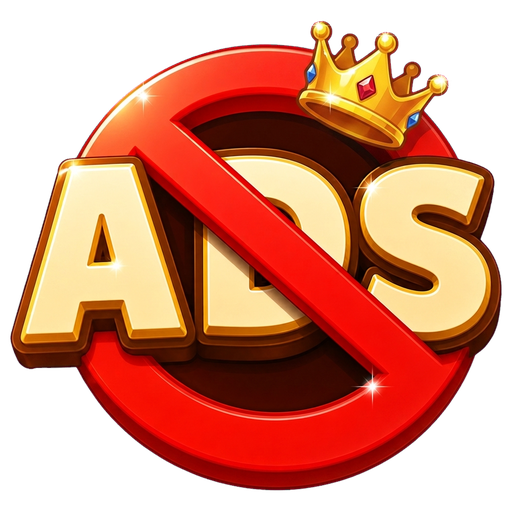
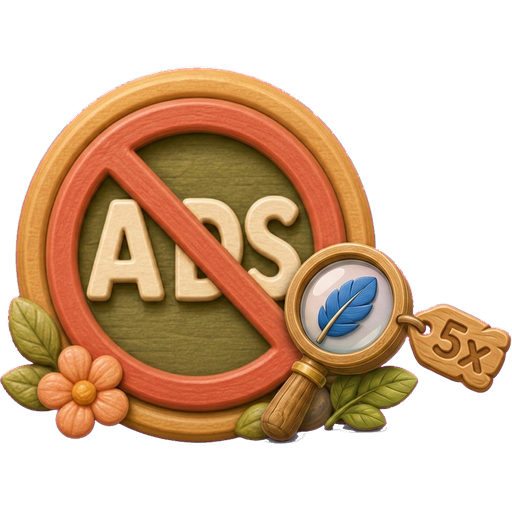
fix(ftb): tutorial tap gate + pan tracking; home polish round 3 (build-20 review)
- Tutorial 'Tap the bird' gate hit-tested dogs[0] while the ring pointed at
  the nearest VISIBLE bird — every tap on the ringed bird was swallowed.
  Gate and advance now key off the actual target id.
- DOM spotlight/bubble re-anchor every frame from the bird's world point,
  so panning/zooming no longer strands the cutout (canvas ring already
  tracked; the overlay now does too).
- Achievements: removed first_best (no timer UI) and the mastery_* ladder
  (duplicated completions); budget now 660 coins / 15 hints.
- New No-Ads Premium icon: composite of this game's no-ads badge +
  magnifier hint icon + carved 5x tag (chroma-key lane); sha repinned.
- Home: Play Now dock gaps equalized (15.2/15.6px), nav icons +25%
  (66→82px, achievements 62→78px), CSS-pin test updated.

diff --git a/games/find_the_bird/src/scenes/GameScene.ts b/games/find_the_bird/src/scenes/GameScene.ts
@@ -265,6 +265,12 @@ export class GameScene extends Phaser.Scene {
   /** Active tutorial highlight ring. Null when tutorial not shown. */
   private tutorialRing: Phaser.GameObjects.Graphics | null = null;
   private tutorialRingTween: Phaser.Tweens.Tween | null = null;
+  /** The bird the state-1 tutorial ring points at (NOT necessarily dogs[0] —
+   *  the prompt picks the nearest bird visible in the starting viewport). */
+  private tutorialTargetDogId: string | null = null;
+  /** World-space anchor + CSS radius for per-frame spotlight tracking. */
+  private tutorialAnchorWorld: { x: number; y: number } | null = null;
+  private tutorialAnchorRadiusCss = 0;
   /**
    * True while the tutorial is on its final zoom step, waiting for the player
    * to perform a real pinch-zoom. `update()` completes the tutorial once the
@@ -596,6 +602,26 @@ export class GameScene extends Phaser.Scene {
     }
 
     this.updateHintEdgeArrow();
+
+    // State-1 tutorial: keep the DOM spotlight/bubble glued to the target
+    // bird while the camera pans or zooms (the canvas ring is world-space
+    // and tracks for free; the DOM overlay is not).
+    if (this.tutorialHandle && this.tutorialAnchorWorld) {
+      const canvas = this.scale.canvas;
+      if (canvas) {
+        const view = this.cameras.main.worldView;
+        const css = phaserPointToCssPoint(
+          canvas,
+          GAME.WIDTH,
+          GAME.HEIGHT,
+          ((this.tutorialAnchorWorld.x - view.left) / view.width) * GAME.WIDTH,
+          ((this.tutorialAnchorWorld.y - view.top) / view.height) * GAME.HEIGHT,
+        );
+        // Zoom scales the on-screen radius: worldView shrinks as zoom grows.
+        const zoomScale = GAME.WIDTH / (view.width || GAME.WIDTH);
+        this.tutorialHandle.updateAnchor(css, this.tutorialAnchorRadiusCss * zoomScale);
+      }
+    }
 
     if (this.activeRevealDirty) {
       this.activeRevealDirty = false;
@@ -1266,15 +1292,19 @@ export class GameScene extends Phaser.Scene {
       return;
     }
 
-    // First-time tutorial, "Tap the dog" phase (pulsing ring up): only the
-    // spotlighted target (dogs[0]) is interactive. Taps on other dogs and
-    // wrong-tap penalties are swallowed — the overlay is pointing at ONE
-    // dog, so collecting others (or losing lives) mid-instruction breaks
-    // the tutorial contract. The gate lifts when the ring tears down
-    // (target found, hint used, or overlay dismissed).
-    if (this.tutorialRing !== null && this.level.dogs.length > 0) {
-      const tutorialHit = this.findClosestUnfoundDogInSet(levelX, levelY, [this.level.dogs[0]]);
-      if (tutorialHit) this.onDogFound(tutorialHit, screenX, screenY);
+    // First-time tutorial, "Tap the bird" phase (pulsing ring up): only the
+    // spotlighted target is interactive. Taps on other birds and wrong-tap
+    // penalties are swallowed — the overlay is pointing at ONE bird, so
+    // collecting others (or losing lives) mid-instruction breaks the
+    // tutorial contract. The gate lifts when the ring tears down (target
+    // found, hint used, or overlay dismissed). The target is the bird the
+    // prompt chose (nearest visible one — NOT necessarily dogs[0]).
+    if (this.tutorialRing !== null) {
+      const target = this.level.dogs.find((d) => d.id === this.tutorialTargetDogId);
+      if (target) {
+        const tutorialHit = this.findClosestUnfoundDogInSet(levelX, levelY, [target]);
+        if (tutorialHit) this.onDogFound(tutorialHit, screenX, screenY);
+      }
       return;
     }
 
@@ -1371,10 +1401,11 @@ export class GameScene extends Phaser.Scene {
     playFind();
     hapticFound();
     updateHUD(this.level!.dogs.length, this.isRestoration);
-    // Tutorial points its pulsing ring at dogs[0] and says "Tap the dog".
-    // Only advance when the player taps THAT dog — if their eye catches a
-    // different one first, leave the ring intact so the contract holds.
-    if (this.level && dog.id === this.level.dogs[0].id) {
+    // Tutorial points its pulsing ring at the bird chosen at prompt time
+    // (nearest visible one — NOT dogs[0]). Only advance when the player taps
+    // THAT bird — if their eye catches a different one first, leave the ring
+    // intact so the contract holds.
+    if (dog.id === this.tutorialTargetDogId) {
       this.advanceTutorial();
     }
 
@@ -1861,6 +1892,8 @@ export class GameScene extends Phaser.Scene {
    */
   private advanceTutorial(): void {
     if (!this.tutorialHandle) return;
+    this.tutorialTargetDogId = null;
+    this.tutorialAnchorWorld = null;
     // Now on the "try a hint" step — arm hint suppression so the tap that
     // advances to the zoom step neither fires a hint nor draws a hint circle.
     this.tutorialHandle.advanceToHintState();
@@ -1918,6 +1951,10 @@ export class GameScene extends Phaser.Scene {
       onUpdate: () => drawRing(pulse.scale, pulse.alpha),
     });
 
+    this.tutorialTargetDogId = dog.id;
+    this.tutorialAnchorWorld = { x: phaserX, y: phaserY };
+    this.tutorialAnchorRadiusCss = dogRadiusCss;
+
     // Field-track the handle so shutdown can call dismiss() cleanly.
     this.tutorialHandle = showTutorialOverlay({
       dogScreen,
@@ -1933,6 +1970,8 @@ export class GameScene extends Phaser.Scene {
       // handle so a later dog-tap cannot re-advance a dead tutorial.
       this.tutorialAwaitingZoom = false;
       this.tutorialHandle = null;
+      this.tutorialTargetDogId = null;
+      this.tutorialAnchorWorld = null;
       this.tutorialRingTween?.destroy();
       this.tutorialRingTween = null;
       const r = this.tutorialRing;

diff --git a/games/find_the_bird/tests/unit/achievement-migration.test.ts b/games/find_the_bird/tests/unit/achievement-migration.test.ts
@@ -42,6 +42,11 @@ function todayStamp(): string {
   return `${d.getFullYear()}-${String(d.getMonth() + 1).padStart(2, '0')}-${String(d.getDate()).padStart(2, '0')}`;
 }
 
+function yesterdayStamp(): string {
+  const d = new Date(Date.now() - 24 * 60 * 60 * 1000);
+  return `${d.getFullYear()}-${String(d.getMonth() + 1).padStart(2, '0')}-${String(d.getDate()).padStart(2, '0')}`;
+}
+
 beforeEach(() => {
   (globalThis as unknown as { localStorage: MemStorage }).localStorage = new MemStorage();
 });
@@ -87,7 +92,6 @@ describe('migration / backfill (AC4/AC5/KTD5)', () => {
     localStorage.setItem(K.BEST_TIMES, JSON.stringify({ 'served-a': 10, 'served-b': 12, 'served-c': 8 }));
     const gs = new GameState();
     expect(gs.achievementRecordSnapshot().masteredLevelIds).toEqual([]);
-    expect(gs.achievementRecordSnapshot().unlocked).not.toContain('mastery_5');
   });
 
   it('running migration twice yields an identical record (idempotent, AC3/AC4)', () => {
@@ -100,15 +104,17 @@ describe('migration / backfill (AC4/AC5/KTD5)', () => {
 
   it('no retroactive reward: migrated unlock never grants, new post-migration achievement does (correction 7)', () => {
     localStorage.setItem(K.TOTAL, '12');
+    localStorage.setItem(K.STREAK_DAYS, '2');
+    localStorage.setItem(K.STREAK_LAST_DATE, yesterdayStamp());
     const gs = new GameState();
-    expect(gs.coinBalance).toBe(0); // migration granted nothing
-    // A live completion: completions_10 is already unlocked (no re-grant); first_best
-    // is genuinely new post-migration and rewards normally (20 coins) + base 45.
+    expect(gs.coinBalance).toBe(0); // migration granted nothing (streak 2 < 3, no backfill)
+    // A live completion: completions_10 is already unlocked (no re-grant); streak_3
+    // is genuinely new post-migration (streak 2 → 3) and rewards normally (30 coins) + base 45.
     const result = gs.beginLevelCompletionTransaction({ levelId: 'lvl-live', levelIndex: 12, timeSeconds: 15, baseCoinReward: 45 });
     expect(result.achievementCommit?.rewards).toHaveLength(0);
-    expect(gs.claimAchievementReward('first_best')).toMatchObject({ coins: 20 });
+    expect(gs.claimAchievementReward('streak_3')).toMatchObject({ coins: 30 });
     expect(gs.claimAchievementReward('completions_10')).toBeNull();
-    expect(gs.coinBalance).toBe(65); // 45 base + claimed 20 first_best
+    expect(gs.coinBalance).toBe(75); // 45 base + claimed 30 streak_3
   });
 
   it('upgrades an older-version record without losing existing unlocks', () => {

diff --git a/games/find_the_bird/src/achievements/catalog.ts b/games/find_the_bird/src/achievements/catalog.ts
@@ -84,17 +84,6 @@ export const ACHIEVEMENT_CATALOG: readonly Achievement[] = [
     entitledReward: { coins: 100, hints: 3 },
   },
   {
-    id: 'first_best',
-    name: 'Personal Best',
-    description: 'Set your first personal best time.',
-    category: 'progression',
-    milestoneKind: 'occurrence-count',
-    threshold: 1,
-    progressSource: 'personalBests',
-    order: 50,
-    entitledReward: { coins: 20 },
-  },
-  {
     id: 'streak_3',
     name: 'On a Roll',
     description: 'Play on 3 consecutive days.',
@@ -137,28 +126,6 @@ export const ACHIEVEMENT_CATALOG: readonly Achievement[] = [
     progressSource: 'lifetimeDogs',
     order: 90,
     entitledReward: { coins: 60 },
-  },
-  {
-    id: 'mastery_5',
-    name: 'Explorer',
-    description: 'Complete 5 different levels.',
-    category: 'mastery',
-    milestoneKind: 'logical-progression',
-    threshold: 5,
-    progressSource: 'masteredLevels',
-    order: 100,
-    entitledReward: { coins: 30 },
-  },
-  {
-    id: 'mastery_15',
-    name: 'Cartographer',
-    description: 'Complete 15 different levels.',
-    category: 'mastery',
-    milestoneKind: 'logical-progression',
-    threshold: 15,
-    progressSource: 'masteredLevels',
-    order: 110,
-    entitledReward: { coins: 75, hints: 2 },
   },
   // 2026-08-06 expansion: the catalog now spans 50+ levels with ~1000
   // findable birds — the ladder extends to match. Existing ids/thresholds
@@ -207,17 +174,6 @@ export const ACHIEVEMENT_CATALOG: readonly Achievement[] = [
     order: 72,
     entitledReward: { coins: 40, hints: 3 },
   },
-  {
-    id: 'mastery_58',
-    name: 'The Whole Atlas',
-    description: 'Complete 58 different levels.',
-    category: 'mastery',
-    milestoneKind: 'logical-progression',
-    threshold: 58,
-    progressSource: 'masteredLevels',
-    order: 112,
-    entitledReward: { coins: 10, hints: 2 },
-  },
 ] as const;
 
 let cachedOrdered: readonly Achievement[] | null = null;
@@ -233,8 +189,8 @@ export function orderedAchievements(): readonly Achievement[] {
 /**
  * Reward-budget total (AC6). Documented so a future catalog edit that inflates the
  * economy is caught by the U2 upper-bound test.
- *   coins: 25+50+75+100+20+30+60+30+60+30+75+60+80+50+40+10 = 795
- *   hints: 3+2+2+2+3+2+3+2 = 19
+ *   coins: 25+50+75+100+30+60+30+60+60+80+50+40 = 660
+ *   hints: 3+2+2+3+2+3 = 15
  */
 export function catalogRewardTotals(): { coins: number; hints: number } {
   let coins = 0;

diff --git a/games/find_the_bird/src/ui/TutorialOverlay.ts b/games/find_the_bird/src/ui/TutorialOverlay.ts
@@ -53,6 +53,13 @@ export interface TutorialHandle {
    * taps the correct dog.
    */
   advanceToHintState: () => void;
+  /**
+   * Re-anchor the state-1 spotlight + bubble to a new viewport point. The
+   * scene calls this every frame while the camera can pan/zoom so the
+   * cutout stays glued to the bird instead of to the screen. No-op outside
+   * state 1.
+   */
+  updateAnchor: (dogScreen: { x: number; y: number }, dogRadius: number) => void;
 }
 
 type TutorialState = 'dog' | 'hint' | 'zoom' | 'dismissed';
@@ -184,7 +191,20 @@ export function showTutorialOverlay(anchor: TutorialAnchor): TutorialHandle {
     overlay.appendChild(hintBubble);
   };
 
-  return { dismissed, dismiss, advanceToHintState };
+  const bubbleDog = overlay.querySelector<HTMLElement>('.tutorial-bubble-dog');
+  const updateAnchor = (dogScreen: { x: number; y: number }, dogRadius: number): void => {
+    if (state !== 'dog') return;
+    // Per-frame tracking: kill the state-change transition or the cutout
+    // rubber-bands behind the camera pan.
+    if (spotlight) spotlight.style.transition = 'none';
+    setCircleSpotlight(spotlight, dogScreen, dogRadius + SPOTLIGHT_PADDING_PX);
+    if (bubbleDog) {
+      bubbleDog.style.left = `${dogScreen.x}px`;
+      bubbleDog.style.top = `${dogScreen.y}px`;
+    }
+  };
+
+  return { dismissed, dismiss, advanceToHintState, updateAnchor };
 }
 
 /** Slack added around a spotlit target so its edges aren't clipped by the dim. */
@@ -219,6 +239,7 @@ function noopHandle(): TutorialHandle {
     dismissed: Promise.resolve(),
     dismiss: () => {},
     advanceToHintState: () => {},
+    updateAnchor: () => {},
   };
 }
 

diff --git a/games/find_the_bird/tests/unit/home-menu-polish.test.ts b/games/find_the_bird/tests/unit/home-menu-polish.test.ts
@@ -111,8 +111,8 @@ describe("home menu polish regressions", () => {
     expect(navCell.maxWidth).toBe("calc(100% / 3)");
     expect(window.getComputedStyle(element(".home-nav-bar")).padding).toBe("0px");
     expect(window.getComputedStyle(element(".home-nav-bar")).minHeight).toBe("134px");
-    expect(CSS_TEXT).toContain("width: 66px;");
-    expect(CSS_TEXT).toContain("height: 66px;");
+    expect(CSS_TEXT).toContain("width: 82px;");
+    expect(CSS_TEXT).toContain("height: 82px;");
     expect(HOME_SCENE_TEXT).not.toContain('id="home-nav-play"');
     expect(HOME_SCENE_TEXT).toContain('id="home-nav-achievements"');
 
@@ -127,7 +127,7 @@ describe("home menu polish regressions", () => {
     const sideNavIconRule = CSS_TEXT.match(/#home-shell \.home-nav-btn img\s*\{([^}]*)\}/s)?.[1] ?? "";
     expect(sideNavIconRule).toContain("margin-inline: auto");
     expect(sideNavIconRule).toContain("transform: translateY(-8px)");
-    expect(CSS_TEXT).toMatch(/#home-shell #home-nav-achievements img\s*\{[^}]*width:\s*62px;[^}]*height:\s*62px;/s);
+    expect(CSS_TEXT).toMatch(/#home-shell #home-nav-achievements img\s*\{[^}]*width:\s*78px;[^}]*height:\s*78px;/s);
     expect(CSS_TEXT).not.toContain(".home-nav-play-btn");
     // 2026-08-05: labels dropped 20px — text was overlapping the nav icons.
     expect(CSS_TEXT).toContain("bottom: calc(env(safe-area-inset-bottom, 0px) * 0.55 + 10px);");

diff --git a/games/find_the_bird/tests/unit/achievement-persistence.test.ts b/games/find_the_bird/tests/unit/achievement-persistence.test.ts
@@ -152,7 +152,7 @@ describe('happy path completion (AC2/AC6)', () => {
     expect(result.achievementCommitError).toBeUndefined();
     expect(gs.coinBalance).toBe(45);
     const rec = gs.achievementRecordSnapshot();
-    expect(rec.unlocked).toEqual(expect.arrayContaining(['first_completion', 'first_best']));
+    expect(rec.unlocked).toEqual(expect.arrayContaining(['first_completion']));
     expect(rec.pendingSettlement).toBeNull();
     expect(rec.progress['completions_10']).toBe(1);
     // Reward advances only coinsGranted, never the levelCompleteCoinGrants counter
@@ -445,11 +445,10 @@ describe('uncapped reward and analytics retry', () => {
         completions_10: 49,
         completions_25: 49,
         completions_50: 49,
-        first_best: 1,
       },
       masteredLevelIds: [],
-      unlocked: ['first_completion', 'completions_10', 'completions_25', 'first_best'],
-      claimedRewardAchievementIds: ['first_completion', 'completions_10', 'completions_25', 'first_best'],
+      unlocked: ['first_completion', 'completions_10', 'completions_25'],
+      claimedRewardAchievementIds: ['first_completion', 'completions_10', 'completions_25'],
       claimedDailyStreakRewardDates: [],
       migrationRewardIneligibleAchievementIds: [],
       legacyRewardProvenanceUnknownAchievementIds: [],

diff --git a/games/find_the_bird/src/testing/TestHarness.ts b/games/find_the_bird/src/testing/TestHarness.ts
@@ -414,16 +414,15 @@ export function createFindTheDogHarness(game: Phaser.Game): FindTheDogHarness {
         first_completion: 1,
         completions_10: 4,
         completions_25: 25,
-        first_best: 1,
         streak_3: 3,
         streak_7: 7,
-        dogs_25: 8,
-        mastery_5: 2,
+        dogs_25: 25,
+        dogs_100: 8,
       },
       masteredLevelIds: ['level-1', 'level-2'],
-      unlocked: ['first_completion', 'completions_25', 'first_best', 'streak_3', 'streak_7'],
+      unlocked: ['first_completion', 'completions_25', 'dogs_25', 'streak_3', 'streak_7'],
       claimedRewardAchievementIds: ['completions_25'],
-      migrationRewardIneligibleAchievementIds: ['first_best'],
+      migrationRewardIneligibleAchievementIds: ['dogs_25'],
       legacyRewardProvenanceUnknownAchievementIds: ['streak_3'],
       processedOccurrenceIds: ['harness:achievement-collection'],
     });

diff --git a/games/find_the_bird/tests/unit/achievement-analytics.test.ts b/games/find_the_bird/tests/unit/achievement-analytics.test.ts
@@ -24,13 +24,13 @@ function multiUnlockDelta(occurrenceId: string): CommittedAchievementDelta {
     progressChanges: [
       { achievementId: 'completions_10', progress: 5, threshold: 10 }, // advanced, not unlocked
       { achievementId: 'first_completion', progress: 1, threshold: 1 },
-      { achievementId: 'first_best', progress: 1, threshold: 1 },
+      { achievementId: 'streak_3', progress: 3, threshold: 3 },
     ],
-    newlyUnlocked: [catalogEntry('first_completion'), catalogEntry('first_best')],
+    newlyUnlocked: [catalogEntry('first_completion'), catalogEntry('streak_3')],
     masteredLevelIdsAdded: [],
     rewards: [
       { achievementId: 'first_completion', coins: 25, hints: 0 },
-      { achievementId: 'first_best', coins: 20, hints: 0 },
+      { achievementId: 'streak_3', coins: 30, hints: 0 },
     ],
   };
 }

diff --git a/games/find_the_bird/src/ui/styles.css b/games/find_the_bird/src/ui/styles.css
@@ -3201,8 +3201,8 @@
   display: grid;
   place-items: center;
   flex-shrink: 0;
-  margin-top: -24px;
-  margin-bottom: 6px;
+  margin-top: 8px;
+  margin-bottom: 2px;
   pointer-events: auto;
 }
 
@@ -3505,8 +3505,8 @@
 }
 #home-shell .home-nav-btn img {
   display: block;
-  width: 66px;
-  height: 66px;
+  width: 82px;
+  height: 82px;
   margin-inline: auto;
   object-fit: contain;
   object-position: center;
@@ -3517,8 +3517,8 @@
     drop-shadow(0 4px 5px rgba(70, 36, 10, 0.5));
 }
 #home-shell #home-nav-achievements img {
-  width: 62px;
-  height: 62px;
+  width: 78px;
+  height: 78px;
 }
 
 /* Pull the side slots a few px toward the middle (A2/A3, build-18 device

diff --git a/games/find_the_bird/tests/unit/asset-preload-parity.test.ts b/games/find_the_bird/tests/unit/asset-preload-parity.test.ts
@@ -64,7 +64,7 @@ const REQUIRED_RESKIN_ASSET_IDS = [
 ] as const;
 
 const PUBLIC_ASSET_SHA256 = {
[5 lines of base64/hex data omitted]
